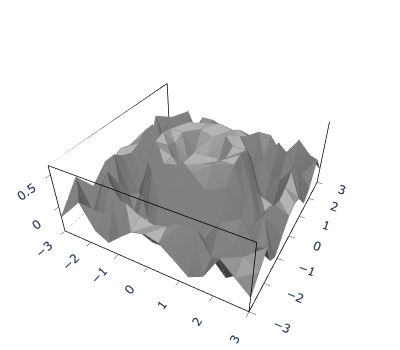
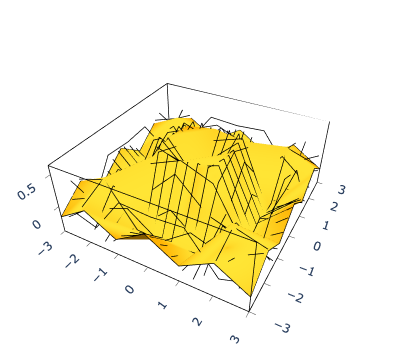
Update tests

diff --git a/render.py b/render.py
@@ -124,11 +124,17 @@ class FigureBuilder:
                 #intensity=vertices[:,2],
                 #color = "rgb(1,.72,.3,1)",
                 color = self.color,
+                vertexcolor = colors,
                 hoverinfo="none"
             )
 
 
         elif self.dim==2:
+
+            # Bit of a hack. There's no 2d go.Mesh, so we just do
+            # a scatter plot of the points.
+            # TODO: kind of slow in Plotly, so maybe resample to
+            # a 100x100 grid might be faster overall? But kind of low-res...
 
             # flatten points
             points = polys if vertices is None else vertices

diff --git a/demos/demo_230_man_2d_density.m b/demos/demo_230_man_2d_density.m
@@ -1,0 +1,7 @@
+Manipulate[
+    DensityPlot[
+        Sin[a x] Cos[b y], {x,0,10 Pi}, {y,0,5 Pi}, Axes -> True
+    ],
+    {{a,1}, 0.5, 2, 0.05},
+    {{b,1}, 0.5, 2, 0.05}
+]

diff --git a/demos/demo_250_3d_complex.m b/demos/demo_250_3d_complex.m
@@ -1,0 +1,5 @@
+ComplexPlot3D[
+    (z^2 + 1)/(z^2 - 1),
+    {z, -2 - 2 I, 2 + 2 I},
+    PlotRange-> {Automatic,Automatic,{0,4}}
+]

diff --git a/demos/demo_240_2d_complex.m b/demos/demo_240_2d_complex.m
@@ -1,0 +1,1 @@
+ComplexPlot[(z^2 + 1)/(z^2 - 1), {z, -2 - 2 I, 2 + 2 I}]
